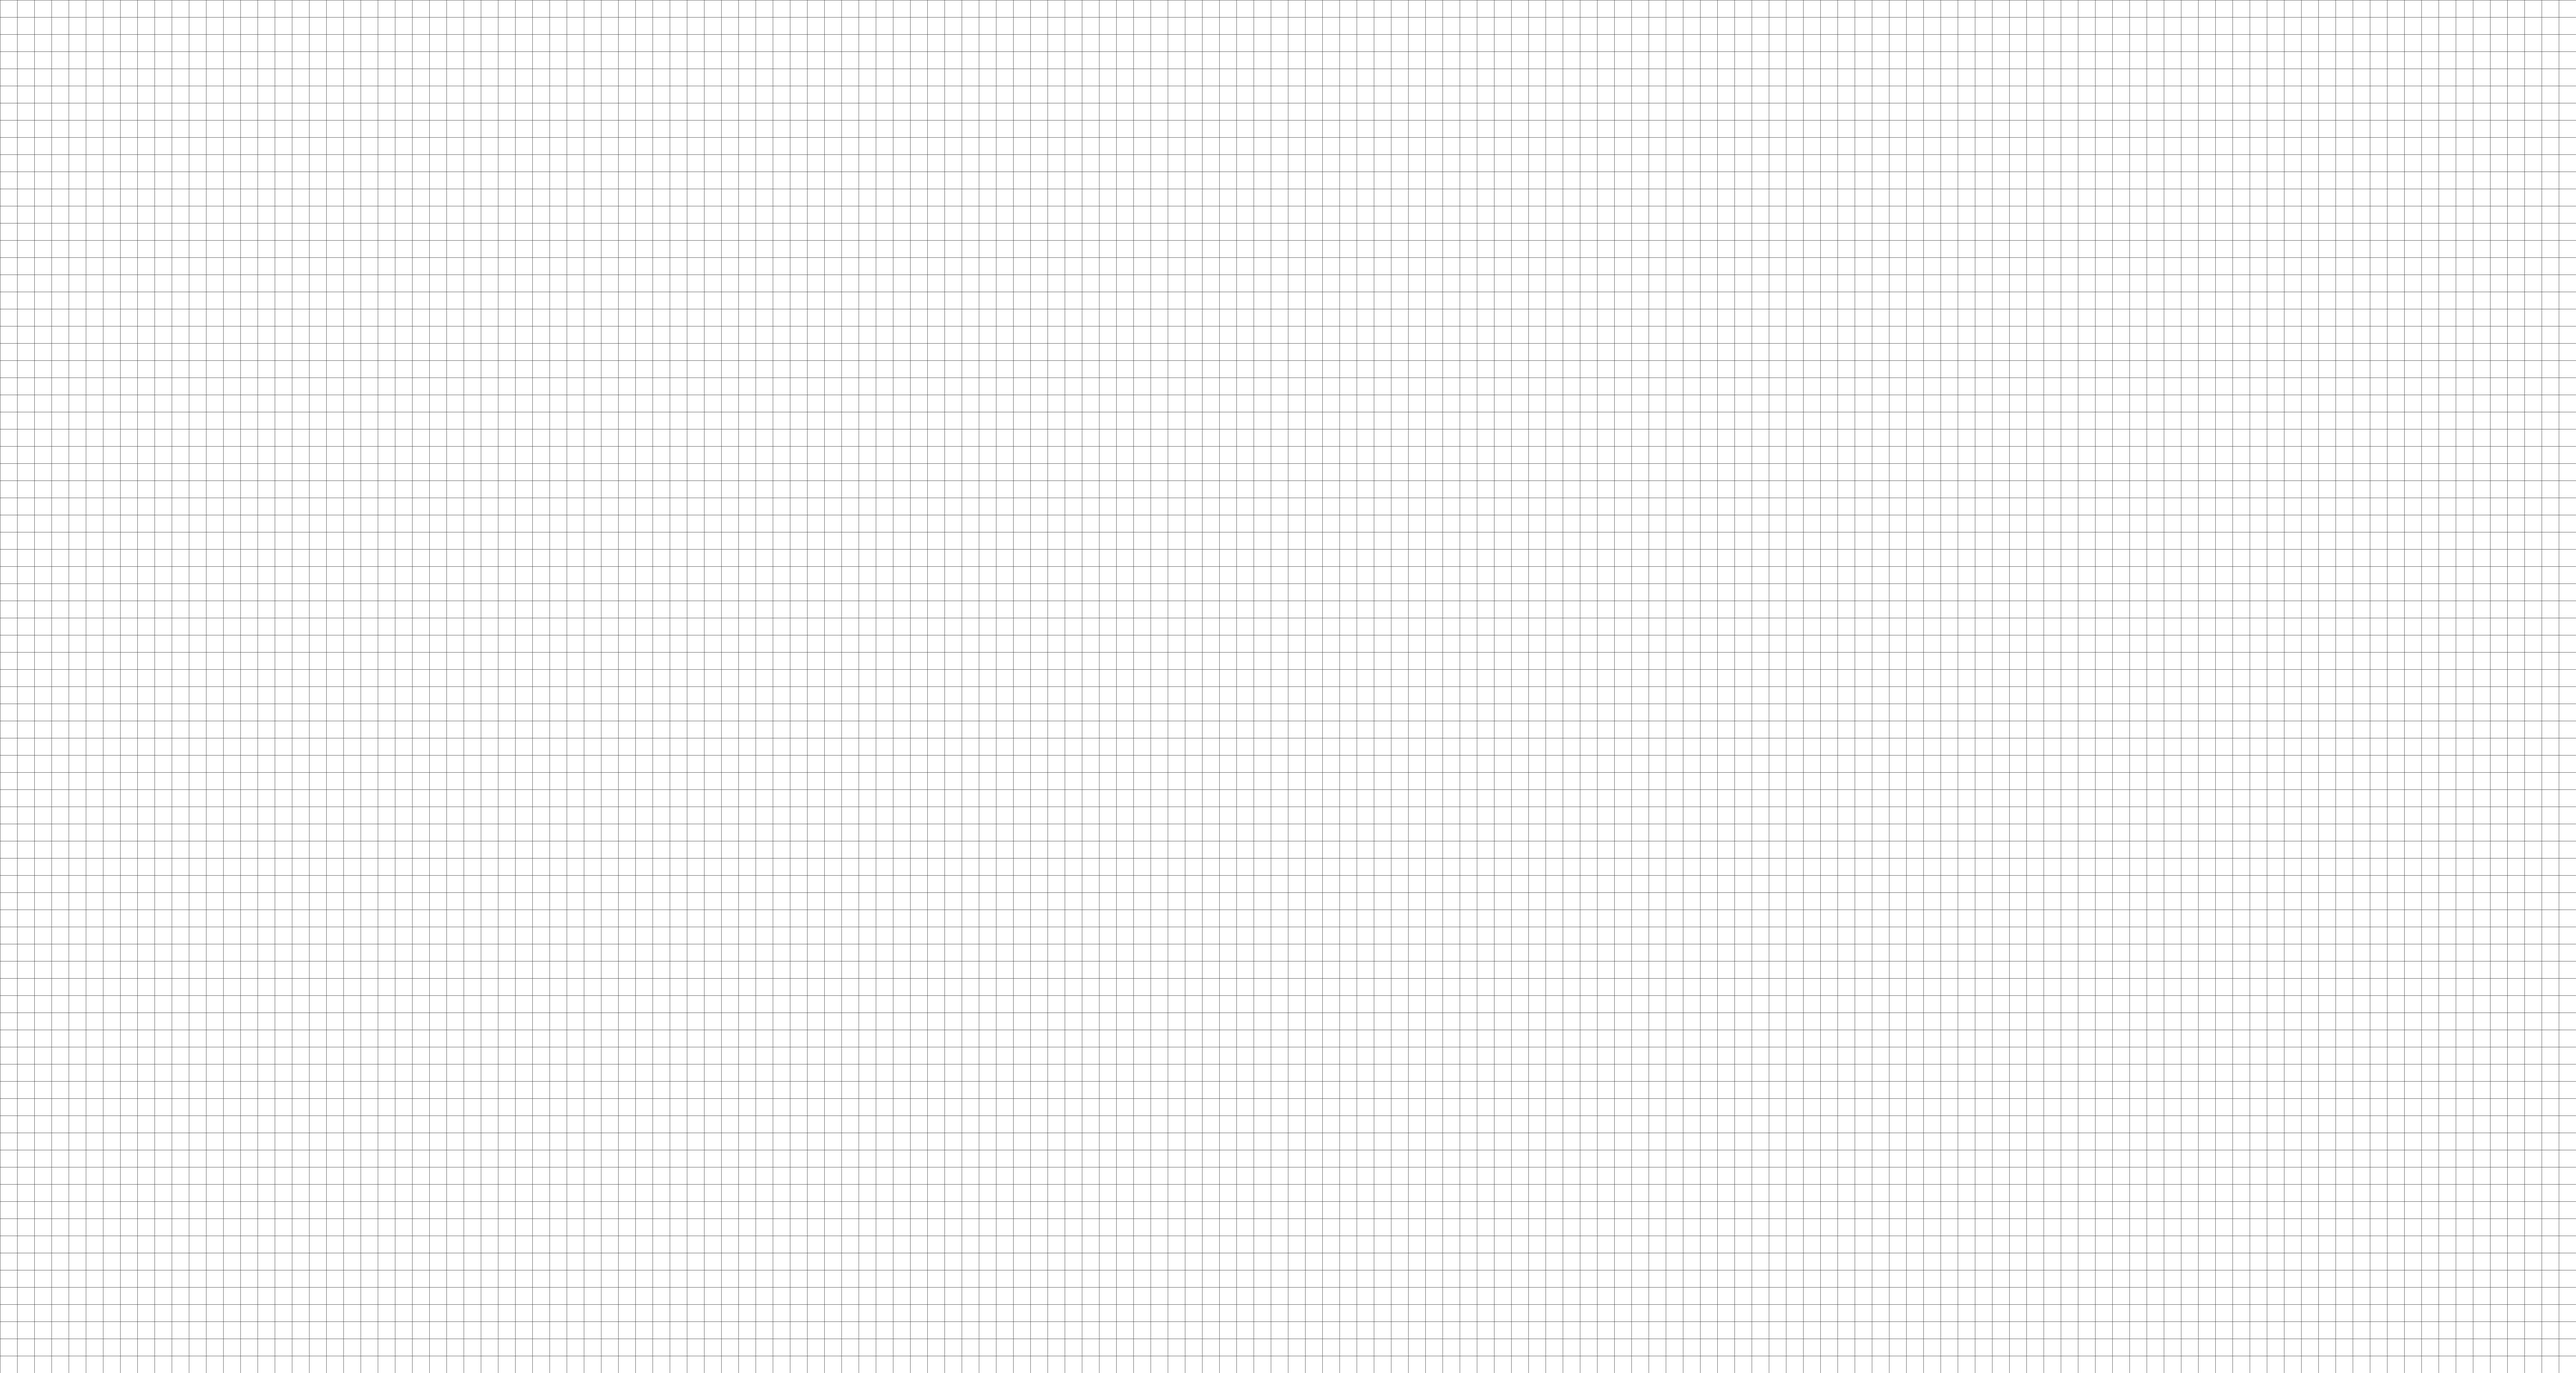
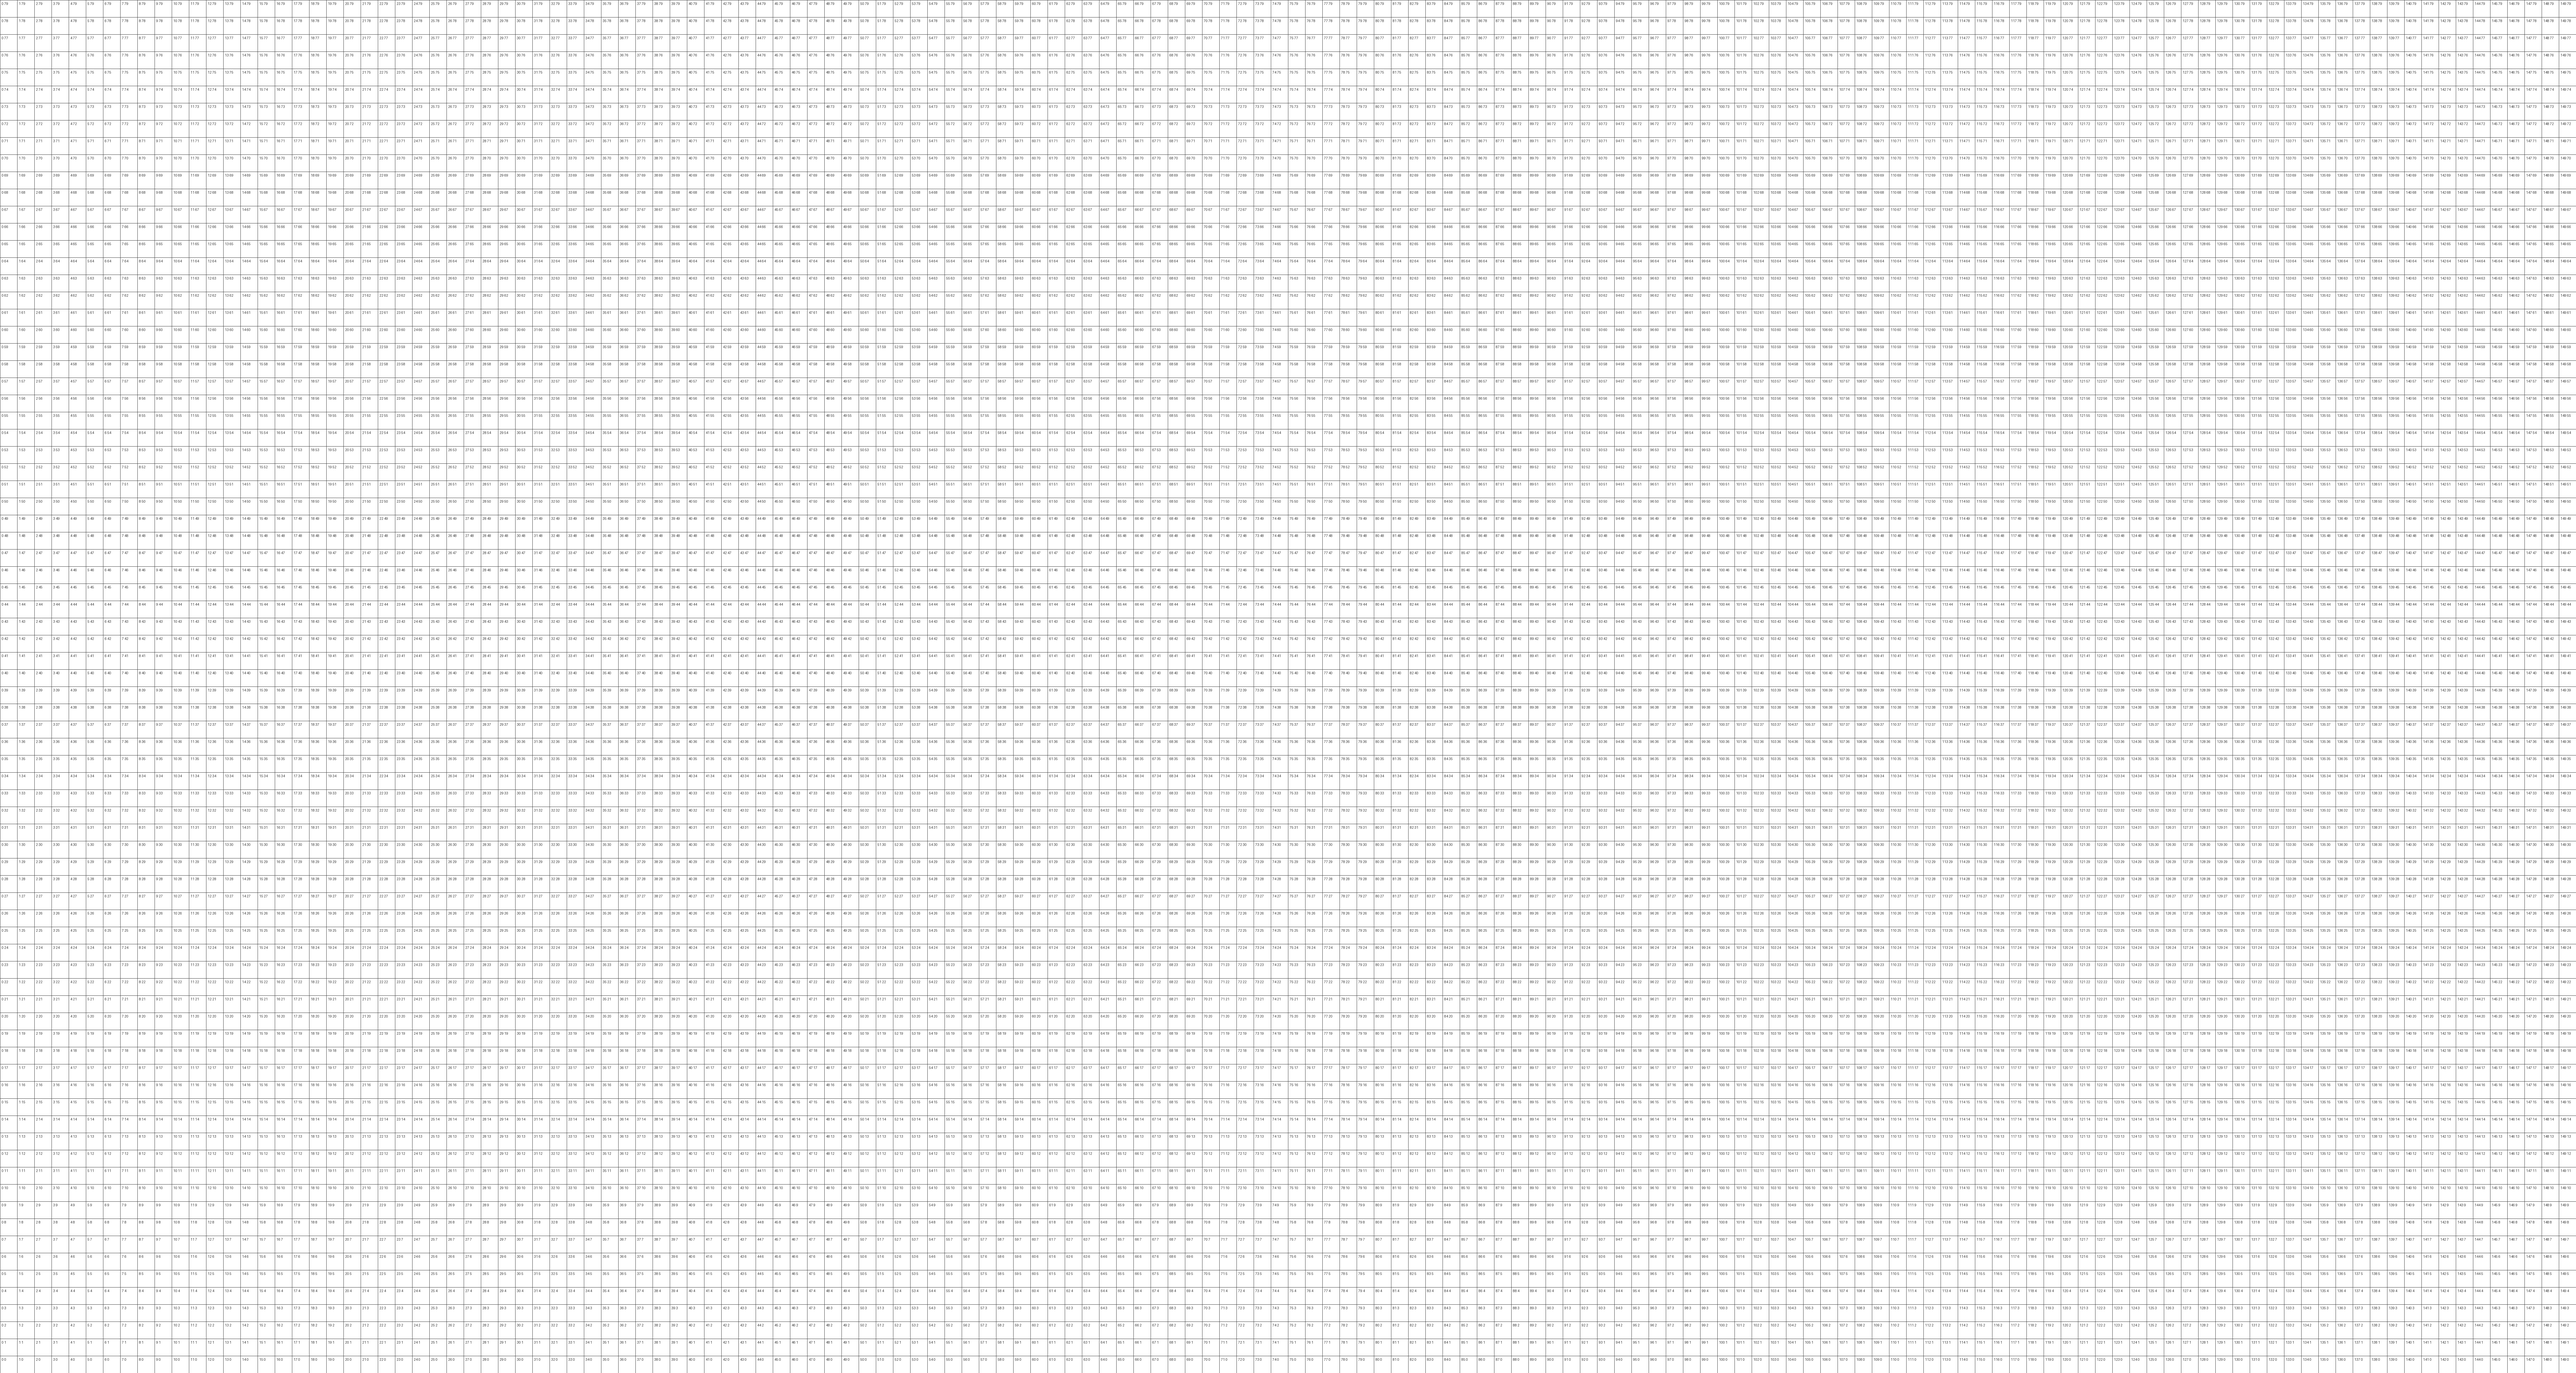
adedd tile coordinates to grid

diff --git a/python/outline.py b/python/outline.py
@@ -24,6 +24,15 @@ def create_tile_outline(image_width, image_height, tiles_x, tiles_y, output_path
         y = int(round(i * tile_height)) + offset_y
         draw.line([(0, y), (image_width, y)], fill=(0, 0, 0, 200), width=1)
 
+
+    # Draw tile coordinates    
+    for x in range(tiles_x):
+        for y in range(tiles_y):
+            tile_x = x * tile_width
+            tile_y = (tiles_y-y-1) * tile_height
+            text = f"{x} {y}"
+            text_position = (tile_x + 5, tile_y + 5)  # Adjust position as needed
+            draw.text(text_position, text, fill=(0, 0, 0, 200))
     # Save image
     img.save(output_path)
     add_layer_config_entry(config = config, text="Grid", category="Grid", image_path=output_path, image_size=(image_width, image_height))
